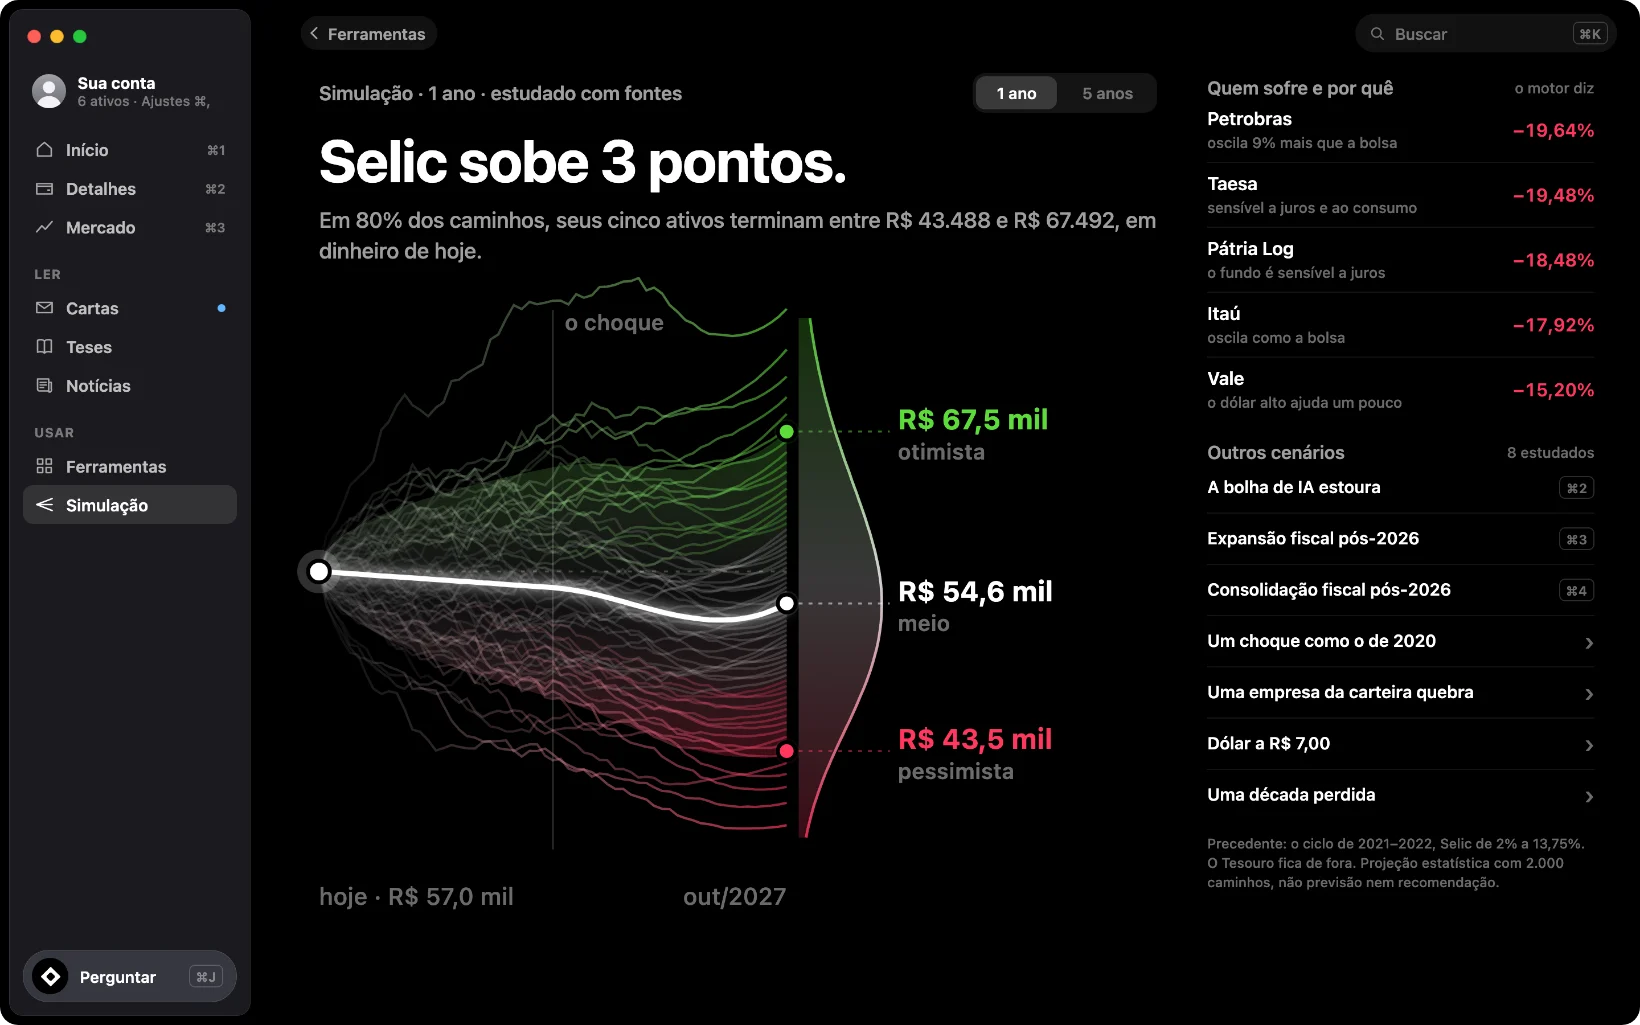
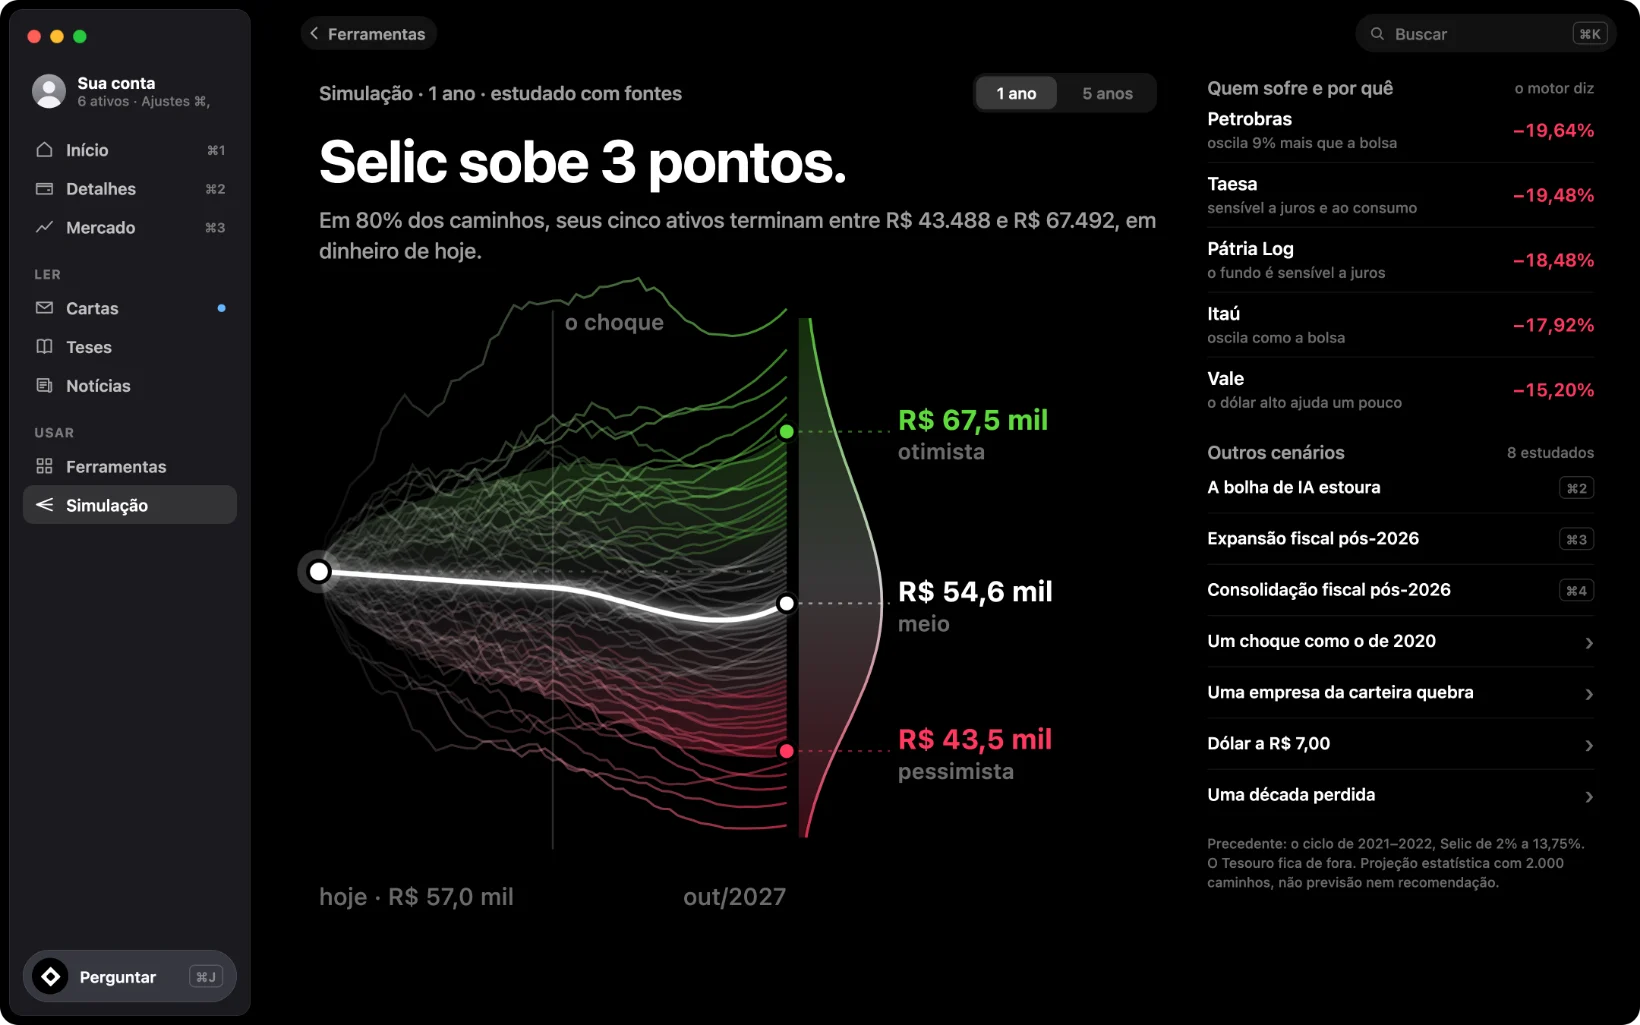
Home: o Mac grande no herói, cortado pela borda direita
No computador, a janela do Mac ocupa quase a altura do herói e sai pela
borda direita da tela; o iPhone e o relógio ficam na frente, embaixo à
esquerda. A coluna dos aparelhos agora vai mesmo até a borda (a margem
negativa antes perdia para o width: 100% da regra de base), e a caixa
para na altura que cabe na dobra em tela larga e baixa. O Mac ganhou a
versão de 2.480 px para telas retina.

Changed region(s): [[0.5598, 0.562, 0.5909, 0.5932]]

diff --git a/app/components/home/HomeAparelhos.vue b/app/components/home/HomeAparelhos.vue
@@ -1,7 +1,11 @@
 <script setup lang="ts">
-// Os três aparelhos da Redentia lado a lado (31/10/2026), como a Apple mostra
-// uma família de produtos: a janela do Mac no meio, o iPhone à direita e o
-// relógio à esquerda. Cada um numa tela diferente do Agora, para mostrar o
+// Os três aparelhos da Redentia juntos (31/10/2026), como a Apple mostra
+// uma família de produtos. No celular e no tablet, a janela do Mac no meio, o
+// iPhone à direita e o relógio à esquerda; no computador, o Mac grande atrás,
+// quase da altura do herói e cortado pela borda direita da tela, com o iPhone
+// e o relógio na frente, embaixo à esquerda (pedido do dono no mesmo dia: "o
+// Mac pode ficar bem maior, ocupando quase toda a altura e cortado um pouco do
+// lado direito"). Cada um numa tela diferente do Agora, para mostrar o
 // produto inteiro e não a mesma frase três vezes (pedido do dono):
 //  - Mac: a Simulação, o leque dos 2.000 caminhos ("Selic sobe 3 pontos");
 //  - iPhone: Detalhes, os anéis da semana e a carteira;
@@ -9,7 +13,8 @@
 //
 // As imagens são as telas aprovadas do canvas V5MBL5Q3 (MacAgoraFerramentas,
 // IPhoneAgoraV2, WatchAgora), renderizadas a 2x e recortadas sem fundo
-// (public/img/home/*.webp). O nome do dono que aparecia na barra lateral do
+// (public/img/home/*.webp; o Mac também a 3x, porque no computador ele passa
+// de 1.000 px de largura). O nome do dono que aparecia na barra lateral do
 // Mac virou "Sua conta". Os números das telas são os de exemplo do canvas.
 //
 // Sem CLS: a caixa tem proporção fixa e cada aparelho é posicionado em
@@ -22,8 +27,8 @@
     <img
       class="hap__mac"
       src="/img/home/mac-simulacao-1640.webp"
-      srcset="/img/home/mac-simulacao-820.webp 820w, /img/home/mac-simulacao-1640.webp 1640w"
-      sizes="(max-width: 760px) 92vw, (max-width: 1023px) min(58vw, 630px), min(46vw, 740px)"
+      srcset="/img/home/mac-simulacao-820.webp 820w, /img/home/mac-simulacao-1640.webp 1640w, /img/home/mac-simulacao-2480.webp 2480w"
+      sizes="(max-width: 760px) 92vw, (max-width: 1023px) min(58vw, 630px), min(63vw, 1210px)"
       width="1640" height="1025" loading="lazy" decoding="async"
       alt="O app da Redentia no Mac, na Simulação: a carteira em 2.000 caminhos, com o otimista, o meio e o pessimista, e quem sofre e por quê."
     >
@@ -31,7 +36,7 @@
       class="hap__watch"
       src="/img/home/watch-detalhes-400.webp"
       srcset="/img/home/watch-detalhes-200.webp 200w, /img/home/watch-detalhes-400.webp 400w"
-      sizes="(max-width: 760px) 30vw, (max-width: 1023px) min(13vw, 140px), min(10vw, 170px)"
+      sizes="(max-width: 760px) 30vw, (max-width: 1023px) min(13vw, 140px), min(10.5vw, 200px)"
       width="400" height="490" loading="lazy" decoding="async"
       alt="O app da Redentia no Apple Watch: os anéis do dia, você contra a bolsa. Caiu menos que a bolsa."
     >
@@ -39,7 +44,7 @@
       class="hap__iphone"
       src="/img/home/iphone-detalhes-520.webp"
       srcset="/img/home/iphone-detalhes-260.webp 260w, /img/home/iphone-detalhes-520.webp 520w"
-      sizes="(max-width: 760px) 38vw, (max-width: 1023px) min(16vw, 174px), min(13vw, 210px)"
+      sizes="(max-width: 760px) 38vw, (max-width: 1023px) min(16vw, 174px), min(13vw, 255px)"
       width="520" height="1099" loading="lazy" decoding="async"
       alt="O app da Redentia no iPhone, em Detalhes: os anéis da semana, o dia contra a bolsa e a carteira."
     >
@@ -47,8 +52,7 @@
 </template>
 
 <style scoped>
-/* Computador: caixa de 100 × 64,4 na coluna da direita do herói (o texto
-   fica à esquerda, numa dobra só). A janela do Mac
+/* Tablet (o herói ainda empilhado): caixa de 100 × 64,4. A janela do Mac
    ocupa 76% da largura no alto; o iPhone desce pela direita e o relógio pela
    esquerda, sobre ela. */
 .hap { position: relative; width: min(820px, 100%); aspect-ratio: 100 / 64.4; margin: 0 auto; }
@@ -64,5 +68,18 @@
   .hap__mac { left: 0; width: 100%; }
   .hap__iphone { right: 3%; top: 28.3%; width: 38%; }
   .hap__watch { left: 3%; top: 65.7%; width: 30%; }
+}
+
+/* Computador (o herói em duas colunas): a caixa vai da coluna da direita até
+   a borda da tela (o herói estica a coluna) e tem 100 × 77. O Mac começa em
+   13% e tem 110% da largura dela, então o lado direito da janela sai da tela;
+   o herói corta com overflow: hidden. O iPhone fica sobre a barra lateral do
+   Mac e o relógio ao lado dele, os dois descendo abaixo da janela; o relógio
+   cobre o rótulo do eixo inteiro ("hoje · R$ 57,0 mil"), e não pela metade. */
+@media (min-width: 1024px) {
+  .hap { width: 100%; aspect-ratio: 100 / 77; margin: 0; }
+  .hap__mac { left: 13%; width: 110%; }
+  .hap__iphone { left: 1%; right: auto; top: 36.9%; width: 23%; }
+  .hap__watch { left: 30.5%; top: 70.1%; width: 18%; }
 }
 </style>

diff --git a/app/components/home/HomeHeroVisitante.vue b/app/components/home/HomeHeroVisitante.vue
@@ -6,9 +6,8 @@
 //    se ela é boa";
 //  - a chamada única (HomeChamada): os bancos dentro do botão, a IA no rótulo,
 //    o preço do plano e os aparelhos na letra miúda;
-//  - o objeto: os três aparelhos na tela Início do Agora (HomeAparelhos), que
-//    é o conceito dos apps (a pessoa não precisa saber de tudo; abre e vê
-//    "Tudo normal.").
+//  - o objeto: os três aparelhos (HomeAparelhos), cada um numa tela do Agora;
+//    no computador, o Mac grande atrás, cortado pela borda direita.
 // Saiu daqui a barra "Pergunte à Redentia" com as ações flutuando
 // (MercadoHeroPergunta, MercadoHeroAtivos), a pedido do dono.
 // Desde 31/10/2026 (pedido do dono, "pra ocupar menos espaço"), no
@@ -44,18 +43,6 @@
   background: var(--nu-cream);
 }
 .hhv__texto { display: flex; flex-direction: column; align-items: flex-start; min-width: 0; }
-/* computador: o texto à esquerda e os aparelhos à direita, numa dobra só */
-@media (min-width: 1024px) {
-  .hhv {
-    grid-template-columns: minmax(0, 0.8fr) minmax(0, 1.2fr); column-gap: clamp(32px, 3.4vw, 64px);
-    min-height: min(720px, calc(100svh - 128px));
-  }
-  /* os aparelhos maiores: a coluna da direita inteira e um respiro a mais
-     para a direita, até o limite do padding da seção */
-  .hhv__aparelhos { margin-top: 0 !important; margin-right: calc(-1 * clamp(0px, 2.5vw, 48px)); width: auto; }
-  .hhv__aparelhos :deep(.hap) { width: 100%; max-width: 980px; }
-  .hhv__luz { left: 74%; bottom: 0; width: min(900px, 70vw); height: 90%; }
-}
 /* uma luz branca atrás dos aparelhos, para o preto das telas não pesar no creme */
 .hhv__luz {
   position: absolute; z-index: -1; left: 50%; bottom: -12%; width: min(1280px, 140vw); height: 70%;
@@ -86,5 +73,27 @@
 
 @media (prefers-reduced-motion: reduce) {
   .hhv__dek, .hhv__chamada, .hhv__aparelhos { animation: none; }
+}
+
+/* computador: o texto à esquerda e os aparelhos à direita, numa dobra só.
+   Fica no fim do arquivo para vencer as regras de base acima.
+   A coluna do texto tem a largura do título (de 380 a 500 px; abaixo de 380
+   o botão não cabe) e a dos aparelhos vai até a borda da tela: a margem
+   negativa come o padding da direita, e o Mac sai pela borda (pedido do
+   dono, 31/10/2026). A caixa para em 1.100 px e, em tela larga e baixa
+   (1536 × 864), na altura que cabe na dobra; presa à direita, o Mac continua
+   cortado. */
+@media (min-width: 1024px) {
+  .hhv {
+    grid-template-columns: clamp(380px, 35vw, 500px) minmax(0, 1fr); column-gap: clamp(24px, 2.6vw, 48px);
+    min-height: min(720px, calc(100svh - 128px));
+    padding-top: clamp(28px, 2.8vw, 44px); padding-bottom: clamp(36px, 3.6vw, 60px);
+  }
+  .hhv__aparelhos {
+    display: flex; justify-content: flex-end; width: auto; margin-top: 0;
+    margin-right: calc(-1 * clamp(22px, 5.5vw, 80px));
+  }
+  .hhv__aparelhos :deep(.hap) { max-width: min(1100px, calc((100svh - 240px) * 1.3)); }
+  .hhv__luz { left: 74%; bottom: 0; width: min(900px, 70vw); height: 90%; }
 }
 </style>
